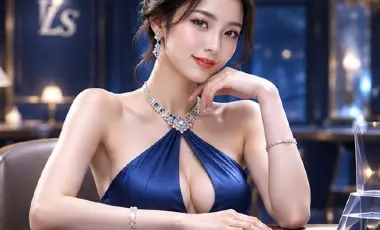
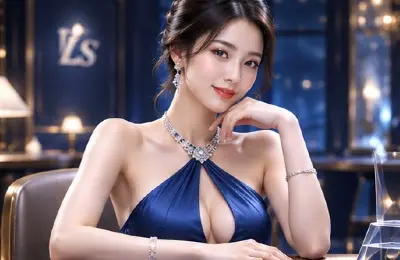
Add baccarat silent countdown before card reveal.
Dim the live dealer view during betting, show a visible countdown, then brighten and deal/flip cards when time runs out. Align home styling closer to the latest Hi mockup.

diff --git a/public/index.html b/public/index.html
@@ -21,10 +21,10 @@ button,input{font:inherit}button{border:0;cursor:pointer;background:none;color:i
 /* top */
 .top{position:sticky;top:0;z-index:20;display:flex;align-items:center;justify-content:space-between;padding:10px 14px;background:rgba(6,14,28,.82);backdrop-filter:blur(18px);border-bottom:1px solid #21406a55}
 .brand{display:flex;align-items:center;gap:10px}
-.logo-mark{width:36px;height:36px;transform:rotate(45deg);border-radius:8px;background:linear-gradient(145deg,#8ad8ff,#2a78ff 55%,#1250c8);display:grid;place-items:center;box-shadow:0 0 18px #2f8dff77,inset 0 1px #fff8}
-.logo-mark span{transform:rotate(-45deg);font:800 12px/1 Georgia,serif;color:#eaf7ff;letter-spacing:.5px;text-shadow:0 1px 4px #003}
+.logo-mark{width:34px;height:38px;clip-path:polygon(50% 0,100% 18%,100% 72%,50% 100%,0 72%,0 18%);background:linear-gradient(160deg,#9fe0ff,#2f7dff 55%,#1248b8);display:grid;place-items:center;box-shadow:0 0 16px #2f8dff77}
+.logo-mark span{font:800 11px/1 Georgia,serif;color:#eaf7ff;letter-spacing:.5px;text-shadow:0 1px 4px #003;margin-top:-2px}
 .brand-txt b{display:block;font-size:15px;font-weight:800;letter-spacing:.5px}
-.brand-txt small{color:var(--cyan);font-size:10px;letter-spacing:1px}
+.brand-txt small{color:var(--cyan);font-size:10px;letter-spacing:1.2px}
 .top-actions{display:flex;gap:8px}
 .icon-btn{width:34px;height:34px;border-radius:10px;background:#122740;border:1px solid #2b4d7888;color:#cfe4ff;display:grid;place-items:center;position:relative}
 .icon-btn .dot{position:absolute;top:6px;right:7px;width:7px;height:7px;border-radius:50%;background:#ff4d4f;box-shadow:0 0 8px #ff4d4f}
@@ -32,32 +32,32 @@ button,input{font:inherit}button{border:0;cursor:pointer;background:none;color:i
 /* home */
 .hero{margin:12px 12px 10px;border-radius:18px;overflow:hidden;position:relative;height:176px;border:1px solid #3a6aa855;box-shadow:0 12px 30px #0006}
 .hero img{width:100%;height:100%;object-fit:cover;object-position:70% 20%;filter:saturate(1.08) brightness(.92)}
-.hero-mask{position:absolute;inset:0;background:linear-gradient(100deg,#06111ff2 0%,#06111fcc 28%,#06111f22 62%,#06111f66 100%)}
-.hero-copy{position:absolute;left:16px;top:50%;transform:translateY(-50%);right:40%;z-index:1}
-.hero-copy h1{margin:0;font-size:26px;font-weight:900;letter-spacing:1px;text-shadow:0 4px 18px #000a}
+.hero-mask{position:absolute;inset:0;background:linear-gradient(100deg,#06111fff 0%,#06111ff5 22%,#06111f55 48%,#06111f10 70%,#06111f55 100%)}
+.hero-copy{position:absolute;left:16px;top:50%;transform:translateY(-50%);right:38%;z-index:1}
+.hero-copy h1{margin:0;font-size:28px;font-weight:900;letter-spacing:1px;text-shadow:0 4px 18px #000a}
 .hero-copy p{margin:10px 0 0;font-size:11px;color:#d7e7ff;opacity:.95;line-height:1.55}
 .hero-arrow{position:absolute;right:14px;bottom:16px;z-index:1;width:30px;height:30px;border-radius:50%;background:#ffffff22;border:1px solid #fff4;display:grid;place-items:center}
 
 .notice{margin:0 12px 10px;padding:9px 12px;border-radius:12px;background:linear-gradient(90deg,#132844cc,#0e1d35cc);border:1px solid #2d4f7a66;display:flex;align-items:center;gap:8px;color:#b7cae6;font-size:12px}
 .notice i{color:var(--gold)}
 
-.vip-card{margin:0 12px 12px;padding:14px;border-radius:16px;background:linear-gradient(135deg,#16325aee,#0d1d38f2 55%,#152a48);border:1px solid #3f6aa988;box-shadow:0 10px 28px #0005,inset 0 1px #ffffff18;display:flex;align-items:center;justify-content:space-between;gap:12px}
+.vip-card{margin:0 12px 12px;padding:14px;border-radius:18px;background:linear-gradient(135deg,rgba(28,58,102,.72),rgba(12,28,52,.88));border:1px solid rgba(120,180,255,.28);box-shadow:0 12px 30px #0006,inset 0 1px rgba(255,255,255,.16);backdrop-filter:blur(16px);display:flex;align-items:center;justify-content:space-between;gap:12px}
 .vip-meta{display:flex;align-items:center;gap:7px;color:var(--gold);font-size:12px;margin-bottom:10px}
 .vip-badge{background:linear-gradient(120deg,#f6d48a,#c8943a);color:#1a1408;font-size:10px;font-weight:800;padding:2px 7px;border-radius:8px}
 .balance-label{font-size:11px;color:var(--muted)}
 .balance-row{display:flex;align-items:center;gap:8px;margin-top:4px}
 .balance-row b{font:800 24px/1.1 Georgia,"Times New Roman",serif;letter-spacing:.5px}
 .eye{width:28px;height:28px;border-radius:8px;background:#1a3050;color:#9fbadc}
-.recharge{min-width:92px;padding:12px 14px;border-radius:12px;background:linear-gradient(135deg,#ffe0a0,#e0b35a 45%,#b8842f);color:#1c1406;font-weight:800;box-shadow:0 8px 18px #b8842f55,inset 0 1px #fff8}
+.recharge{min-width:96px;padding:12px 14px;border-radius:14px;background:linear-gradient(135deg,#ffe9b8,#e0b35a 45%,#b8842f);color:#1c1406;font-weight:800;border:1px solid #f6d48a;box-shadow:0 8px 18px #b8842f55,inset 0 1px #fff8}
 
 .quick{margin:4px 12px 14px;display:grid;grid-template-columns:repeat(4,1fr);gap:8px}
 .quick button{display:grid;gap:7px;justify-items:center;color:#d7e6fb;font-size:11px}
-.qico{width:46px;height:46px;border-radius:14px;background:linear-gradient(160deg,#1a3358,#101f38);border:1px solid #35598788;display:grid;place-items:center;font-size:18px;box-shadow:inset 0 1px #fff2}
+.qico{width:52px;height:52px;border-radius:16px;background:linear-gradient(160deg,rgba(40,72,120,.55),rgba(16,32,58,.9));border:1px solid rgba(120,180,255,.25);display:grid;place-items:center;font-size:20px;box-shadow:inset 0 1px rgba(255,255,255,.18),0 8px 16px #0004;backdrop-filter:blur(10px)}
 
-.promo{margin:0 12px 14px;border-radius:16px;overflow:hidden;position:relative;height:92px;border:1px solid #3d679a77;background:linear-gradient(120deg,#1a3a68,#102446)}
-.promo img{position:absolute;right:0;top:0;height:100%;width:48%;object-fit:cover;opacity:.85;mask-image:linear-gradient(90deg,transparent,#000 30%)}
-.promo-copy{position:relative;z-index:1;padding:18px 16px}
-.promo-copy small{color:var(--gold);letter-spacing:1px;font-size:10px}
+.promo{margin:0 12px 14px;border-radius:16px;overflow:hidden;position:relative;height:96px;border:1px solid #3d679a77;background:linear-gradient(120deg,#1a3a68,#102446)}
+.promo img{position:absolute;right:0;top:0;height:100%;width:55%;object-fit:cover;opacity:.95;mask-image:linear-gradient(90deg,transparent,#000 28%)}
+.promo-copy{position:relative;z-index:1;padding:20px 16px}
+.promo-copy small{color:var(--gold);letter-spacing:1.5px;font-size:10px}
 .promo-copy b{display:block;margin-top:6px;font-size:18px}
 
 .section{margin:0 12px 16px}
@@ -103,13 +103,48 @@ button,input{font:inherit}button{border:0;cursor:pointer;background:none;color:i
 .bac-top .left{display:flex;align-items:center;gap:8px}
 .bac-top h2{margin:0;font-size:18px}
 .live-pill{font-size:10px;padding:3px 7px;border-radius:999px;background:#12345a;border:1px solid #3d7cff88;color:#9fd0ff}
-.dealer-stage{margin:0 12px;border-radius:16px;overflow:hidden;position:relative;height:220px;border:1px solid #3a6aa866;background:#0b172b}
-.dealer-stage img{width:100%;height:100%;object-fit:cover;object-position:center 25%}
-.live-overlay{position:absolute;left:10px;top:10px;display:flex;gap:8px;align-items:center}
+.dealer-stage{margin:0 12px;border-radius:18px;overflow:hidden;position:relative;height:340px;border:1px solid #3a6aa866;background:#0b172b;box-shadow:0 14px 28px #0007}
+.dealer-live{position:absolute;inset:0 0 96px;overflow:hidden}
+.dealer-img{width:100%;height:100%;object-fit:cover;object-position:center 18%;transform-origin:center 30%;will-change:transform,filter;filter:brightness(.55) saturate(.85);transition:filter .45s ease}
+.dealer-img.idle{animation:dealerIdle 4.8s ease-in-out infinite}
+.dealer-img.dealing{filter:brightness(1) saturate(1.05);animation:dealerDeal .55s ease-in-out 4}
+.dealer-img.live-bright{filter:brightness(1) saturate(1.05)}
+.dealer-dim{position:absolute;inset:0;background:rgba(4,10,22,.42);pointer-events:none;transition:opacity .4s;z-index:2}
+.dealer-stage.is-open .dealer-dim{opacity:0}
+.dealer-stage.is-open .dealer-img{filter:brightness(1) saturate(1.05)}
+.dealer-glow{position:absolute;inset:auto 0 0;height:70px;background:linear-gradient(transparent,#0a1a12ee);z-index:2}
+@keyframes dealerIdle{0%,100%{transform:scale(1) translateY(0)}50%{transform:scale(1.02) translateY(-3px)}}
+@keyframes dealerDeal{0%,100%{transform:scale(1) rotate(0)}35%{transform:scale(1.04) rotate(-1.2deg) translateY(-3px)}70%{transform:scale(1.02) rotate(1deg)}}
+@media(prefers-reduced-motion:reduce){.dealer-img.idle,.dealer-img.dealing,.pcard,.cd-ring{animation:none!important}}
+.live-overlay{position:absolute;left:10px;top:10px;display:flex;gap:8px;align-items:center;z-index:5}
 .live-now{background:#e11d48;color:#fff;font-size:10px;font-weight:800;padding:4px 8px;border-radius:999px}
 .viewers{background:#06111ecc;border:1px solid #ffffff22;padding:4px 8px;border-radius:999px;font-size:10px}
-.table-id{position:absolute;right:10px;top:10px;background:#06111ecc;border:1px solid #ffffff22;padding:4px 8px;border-radius:999px;font-size:10px;color:#c9dbf5}
-.signal{position:absolute;right:10px;bottom:10px;font-size:11px;color:#9fe870}
+.table-id{position:absolute;right:10px;top:10px;z-index:5;background:#06111ecc;border:1px solid #ffffff22;padding:4px 8px;border-radius:999px;font-size:10px;color:#c9dbf5}
+.signal{position:absolute;right:10px;top:40px;z-index:5;font-size:11px;color:#9fe870}
+.countdown-layer{position:absolute;inset:0 0 96px;z-index:4;display:grid;place-items:center;pointer-events:none}
+.countdown-layer.hide{opacity:0;visibility:hidden;transition:opacity .25s}
+.cd-ring{width:92px;height:92px;border-radius:50%;border:3px solid rgba(240,200,120,.35);box-shadow:0 0 0 10px rgba(0,0,0,.28),0 0 28px rgba(79,195,255,.25);background:rgba(6,14,28,.55);backdrop-filter:blur(8px);display:grid;place-items:center;position:relative}
+.cd-ring:before{content:"";position:absolute;inset:-3px;border-radius:50%;border:3px solid transparent;border-top-color:var(--gold);animation:cdSpin 1s linear infinite}
+@keyframes cdSpin{to{transform:rotate(360deg)}}
+.cd-num{font:800 34px/1 Georgia,serif;color:#fff;text-shadow:0 4px 16px #000a}
+.cd-label{position:absolute;bottom:18px;left:0;right:0;text-align:center;font-size:11px;letter-spacing:2px;color:#d7e7ff;text-shadow:0 2px 8px #000a}
+.felt{position:absolute;left:0;right:0;bottom:0;height:100px;z-index:6;background:radial-gradient(ellipse at 50% 0%,#1f6a45,#0d3a28 70%);border-top:1px solid #3d9a6888;display:grid;grid-template-columns:1fr auto 1fr;align-items:center;gap:6px;padding:8px 10px}
+.felt-side{text-align:center}
+.felt-side>span{display:block;font-size:10px;color:#c8f0d8;letter-spacing:1px;margin-bottom:4px}
+.felt-side>b{display:block;margin-top:4px;font-size:12px;color:#ffe7a8}
+.card-slot{display:flex;justify-content:center;gap:4px;min-height:46px}
+.felt-center{min-width:78px;text-align:center;font-size:11px;color:#d7ffe8;padding:6px 8px;border-radius:10px;background:#06241899;border:1px solid #3d9a6855}
+.felt-center.win{color:#ffe7a8;border-color:#f0c87888;box-shadow:0 0 16px #f0c87844}
+.pcard{width:32px;height:44px;perspective:400px;opacity:0;transform:translateY(-40px) scale(.6)}
+.pcard.show{animation:cardIn .35s ease forwards}
+.pcard.flip .pcard-inner{transform:rotateY(180deg)}
+@keyframes cardIn{to{opacity:1;transform:translateY(0) scale(1)}}
+.pcard-inner{position:relative;width:100%;height:100%;transform-style:preserve-3d;transition:transform .45s ease}
+.pcard-face{position:absolute;inset:0;border-radius:5px;backface-visibility:hidden;display:grid;place-items:center;font-size:11px;font-weight:800;box-shadow:0 3px 8px #0007}
+.pcard-back{background:linear-gradient(145deg,#1d4f9c,#0d2a5c);border:1px solid #7eb0ff88;color:#9fd0ff}
+.pcard-back:before{content:"LR";font:800 9px Georgia,serif;letter-spacing:1px}
+.pcard-front{background:linear-gradient(160deg,#fff,#e8eef8);border:1px solid #d7dde8;color:#1a2438;transform:rotateY(180deg);grid-template-rows:auto 1fr auto;padding:2px}
+.pcard-front .r{font-size:10px;line-height:1}.pcard-front .s{font-size:14px}.pcard-front.red{color:#d64545}
 
 .table-panel{margin:12px}
 .bet-main{display:grid;grid-template-columns:1fr 1fr 1fr;gap:8px;margin-bottom:8px}
@@ -260,7 +295,7 @@ body:not(.is-user) .user-only{display:none!important}
     <button onclick="toast('客服入口演示')"><span class="qico">🎧</span>客服</button>
   </div>
   <section class="promo">
-    <img src="network-bonus.webp" alt="">
+    <img src="promo-gift.webp" alt="" onerror="this.src='network-bonus.webp'">
     <div class="promo-copy"><small>NEW MEMBER</small><b>新人专享礼</b></div>
   </section>
   <section class="section">
@@ -303,11 +338,32 @@ body:not(.is-user) .user-only{display:none!important}
       <button class="icon-btn" onclick="toast('全屏演示')">⛶</button>
     </div>
   </div>
-  <section class="dealer-stage">
-    <img id="bacDealer" src="baccarat-dealer.webp" alt="百家乐荷官">
-    <div class="live-overlay"><span class="live-now">● 直播中</span><span class="viewers">👁 3,426</span></div>
-    <div class="table-id">局号 B0087326</div>
+  <section class="dealer-stage" id="dealerStage">
+    <div class="dealer-live">
+      <img id="bacDealer" class="dealer-img idle" src="baccarat-dealer.webp" alt="百家乐荷官">
+      <div class="dealer-dim" id="dealerDim"></div>
+      <div class="dealer-glow"></div>
+    </div>
+    <div class="live-overlay"><span class="live-now">● 直播中</span><span class="viewers" id="bacViewers">👁 3,426</span></div>
+    <div class="table-id" id="tableId">局号 B0087326</div>
     <div class="signal">📶 信号良好</div>
+    <div class="countdown-layer" id="countdownLayer">
+      <div class="cd-ring"><span class="cd-num" id="cdNum">15</span></div>
+      <div class="cd-label" id="cdLabel">下注倒计时</div>
+    </div>
+    <div class="felt">
+      <div class="felt-side">
+        <span>闲 PLAYER</span>
+        <div class="card-slot" id="pCards"></div>
+        <b id="pScore">—</b>
+      </div>
+      <div class="felt-center" id="dealStatus">静默等待中</div>
+      <div class="felt-side">
+        <span>庄 BANKER</span>
+        <div class="card-slot" id="bCards"></div>
+        <b id="bScore">—</b>
+      </div>
+    </div>
   </section>
   <section class="table-panel">
     <div class="bet-main">
@@ -546,7 +602,7 @@ function openGame(n){
   recent=[n,...recent.filter(x=>x!==n)].slice(0,30);writeList('lr-recent',recent);
   const game=games.find(x=>x.name===n);
   if(EXTERNAL_GAMES[n]){toast('正在打开 '+n+' 试玩页');window.open(EXTERNAL_GAMES[n],'_blank','noopener,noreferrer');return}
-  if(game&&game.cat==='真人'){enterGame('baccarat');setupBaccarat(game);return}
+  if(game&&game.cat==='真人'){enterGame('baccarat');setupBaccarat();return}
   if(game&&game.name.startsWith('加拿大')){enterGame('canada');return}
   if(game){enterGame('play');setupPlay(game);return}
 }
@@ -578,8 +634,13 @@ function enterGame(id){
   document.querySelectorAll('.nav').forEach(x=>x.classList.remove('active'));
   setChrome(true);window.scrollTo(0,0);
 }
-function exitGame(c){setChrome(false);go('games',c)}
+function exitGame(c){
+  if(typeof stopCountdown==='function')stopCountdown();
+  dealing=false;bettingOpen=false;
+  setChrome(false);go('games',c);
+}
 function go(p,c){
+  if(p!=='baccarat' && typeof stopCountdown==='function'){stopCountdown();bettingOpen=false}
   setChrome(false);
   document.querySelectorAll('.page').forEach(x=>x.classList.toggle('active',x.id===p));
   document.querySelectorAll('.nav').forEach(x=>x.classList.toggle('active',x.dataset.page===p));
@@ -617,8 +678,11 @@ document.getElementById('toggleBal').onclick=()=>{
 };
 refreshAuth();
 
-/* baccarat demo */
+/* baccarat demo — dim silent countdown, then open cards */
 const roadSeed=['p','b','p','p','b','b','p','t','b','p','b','p','p','b','t','b','p','b','p','p','b','p','b','b'];
+const SUITS=[{s:'♠',red:false},{s:'♥',red:true},{s:'♣',red:false},{s:'♦',red:true}];
+const RANKS=['A','2','3','4','5','6','7','8','9','10','J','Q','K'];
+const BET_SECONDS=12;
 function paintRoad(arr){
   const root=document.getElementById('roadDots');
   root.innerHTML=arr.slice(-24).map(x=>`<i class="${x}"></i>`).join('');
@@ -628,43 +692,164 @@ function paintRoad(arr){
   document.getElementById('statT').textContent=c.t;
 }
 paintRoad(roadSeed);
-let chip=100,bets={},lastBets={},road=roadSeed.slice();
-function setupBaccarat(game){
+let chip=100,bets={},lastBets={},lockedBets={},road=roadSeed.slice();
+let dealing=false,bettingOpen=false,secondsLeft=BET_SECONDS,cdTimer=null,roundNo=87326;
+function cardValue(rank){if(rank==='A')return 1;if(['10','J','Q','K'].includes(rank))return 0;return Number(rank)}
+function handPoint(cards){return cards.reduce((a,c)=>a+cardValue(c.rank),0)%10}
+function drawCard(){return {rank:RANKS[Math.floor(Math.random()*RANKS.length)],...SUITS[Math.floor(Math.random()*SUITS.length)]}}
+function makeCardEl(card){
+  const el=document.createElement('div');
+  el.className='pcard';
+  el.innerHTML=`<div class="pcard-inner"><div class="pcard-face pcard-back"></div><div class="pcard-face pcard-front ${card.red?'red':''}"><div class="r">${card.rank}</div><div class="s">${card.s}</div><div class="r">${card.rank}</div></div></div>`;
+  return el;
+}
+function clearFelt(statusText){
+  document.getElementById('pCards').innerHTML='';
+  document.getElementById('bCards').innerHTML='';
+  document.getElementById('pScore').textContent='—';
+  document.getElementById('bScore').textContent='—';
+  const st=document.getElementById('dealStatus');
+  st.classList.remove('win');st.textContent=statusText||'静默等待中';
+}
+function setVideoPhase(phase){
+  const stage=document.getElementById('dealerStage');
+  const img=document.getElementById('bacDealer');
+  const layer=document.getElementById('countdownLayer');
+  img.classList.remove('idle','dealing','live-bright');
+  if(phase==='countdown'){
+    stage.classList.remove('is-open');
+    img.classList.add('idle');
+    layer.classList.remove('hide');
+    document.getElementById('cdLabel').textContent='下注倒计时 · 画面静默';
+  }else if(phase==='open'){
+    stage.classList.add('is-open');
+    img.classList.add('dealing','live-bright');
+    layer.classList.add('hide');
+  }else{
+    stage.classList.remove('is-open');
+    img.classList.add('idle');
+    layer.classList.remove('hide');
+  }
+}
+function stopCountdown(){if(cdTimer){clearInterval(cdTimer);cdTimer=null}}
+function renderCountdown(){
+  document.getElementById('cdNum').textContent=String(Math.max(0,secondsLeft));
+  document.getElementById('dealStatus').textContent=bettingOpen?('下注中 '+secondsLeft+'s'):'准备开牌';
+}
+function startBettingCountdown(){
+  stopCountdown();
+  dealing=false;bettingOpen=true;secondsLeft=BET_SECONDS;
+  lockedBets={};
+  document.getElementById('bacConfirm').disabled=false;
+  document.getElementById('bacConfirm').textContent='✓ 确认下注';
+  clearFelt('静默等待 · 可下注');
+  setVideoPhase('countdown');
+  renderCountdown();
+  cdTimer=setInterval(async()=>{
+    if(!document.getElementById('baccarat').classList.contains('active'))return;
+    secondsLeft-=1;renderCountdown();
+    if(secondsLeft<=0){
+      stopCountdown();
+      bettingOpen=false;
+      await beginOpenCards();
+    }
+  },1000);
+}
+function setupBaccarat(){
   document.getElementById('bacDealer').src='baccarat-dealer.webp';
   bets={};updateBetSummary();
+  startBettingCountdown();
 }
 function updateBetSummary(){
   const entries=Object.entries(bets).filter(([,v])=>v>0);
-  document.getElementById('betSummary').textContent=entries.length?('本局：'+entries.map(([k,v])=>k+' '+v).join(' · ')):'请选择筹码并点击投注区';
-  document.querySelectorAll('[data-bet]').forEach(b=>{
-    const k=b.dataset.bet;const v=bets[k]||0;
-    const base=b.innerHTML.split('<b>')[0].trim().replace(/\s+\d+$/,'');
-    // keep odds label
-  });
+  document.getElementById('betSummary').textContent=entries.length?('本局：'+entries.map(([k,v])=>k+' '+v).join(' · ')):(bettingOpen?'倒计时内选择筹码并点击投注区':'开牌中，请稍候');
+}
+function wait(ms){return new Promise(r=>setTimeout(r,ms))}
+async function dealTo(slotId,card){
+  const slot=document.getElementById(slotId);
+  const el=makeCardEl(card);
+  slot.appendChild(el);
+  await wait(30);
+  el.classList.add('show');
+  await wait(280);
+  el.classList.add('flip');
+  await wait(420);
+  return el;
+}
+async function beginOpenCards(){
+  if(dealing)return;
+  dealing=true;bettingOpen=false;
+  document.getElementById('bacConfirm').disabled=true;
+  lockedBets=Object.keys(bets).length?{...bets}:{...lastBets};
+  if(Object.keys(bets).length) lastBets={...bets};
+  clearFelt('封盘 · 即将开牌');
+  document.getElementById('cdLabel').textContent='封盘';
+  document.getElementById('countdownLayer').classList.add('hide');
+  await wait(500);
+  roundNo+=1;
+  document.getElementById('tableId').textContent='局号 B'+String(roundNo).padStart(7,'0');
+  document.getElementById('dealStatus').textContent='荷官开牌中…';
+  setVideoPhase('open');
+  const player=[drawCard(),drawCard()];
+  const banker=[drawCard(),drawCard()];
+  await dealTo('pCards',player[0]);
+  await dealTo('bCards',banker[0]);
+  await dealTo('pCards',player[1]);
+  await dealTo('bCards',banker[1]);
+  let p=handPoint(player),b=handPoint(banker);
+  document.getElementById('pScore').textContent=p+' 点';
+  document.getElementById('bScore').textContent=b+' 点';
+  if(p<6 && b<6){
+    document.getElementById('dealStatus').textContent='补牌中…';
+    const extra=drawCard();
+    if(Math.random()<.5){player.push(extra);await dealTo('pCards',extra);p=handPoint(player);document.getElementById('pScore').textContent=p+' 点'}
+    else{banker.push(extra);await dealTo('bCards',extra);b=handPoint(banker);document.getElementById('bScore').textContent=b+' 点'}
+  }
+  const result=p>b?'p':b>p?'b':'t';
+  const map={p:'闲',b:'庄',t:'和'};
+  const st=document.getElementById('dealStatus');
+  st.classList.add('win');
+  st.textContent=map[result]+' 胜 · '+p+':'+b;
+  road=[...road,result];paintRoad(road);
+  toast('开牌完成：'+map[result]+'胜（演示）');
+  bets={};document.querySelectorAll('[data-bet]').forEach(x=>x.classList.remove('active'));updateBetSummary();
+  await wait(2800);
+  dealing=false;
+  if(document.getElementById('baccarat').classList.contains('active')) startBettingCountdown();
 }
 document.querySelectorAll('#chipRow [data-chip]').forEach(b=>b.onclick=()=>{
+  if(!bettingOpen||dealing)return;
   chip=Number(b.dataset.chip);document.querySelectorAll('#chipRow button').forEach(x=>x.classList.remove('active'));b.classList.add('active');
   toast('已选择筹码 '+b.textContent);
 });
 document.querySelectorAll('[data-bet]').forEach(b=>b.onclick=()=>{
+  if(!bettingOpen||dealing){toast(dealing?'正在开牌':'已封盘');return}
   const k=b.dataset.bet;bets[k]=(bets[k]||0)+chip;
   document.querySelectorAll('[data-bet]').forEach(x=>x.classList.toggle('active',(bets[x.dataset.bet]||0)>0));
   updateBetSummary();
 });
-document.getElementById('bacClear').onclick=()=>{bets={};document.querySelectorAll('[data-bet]').forEach(x=>x.classList.remove('active'));updateBetSummary();toast('已清空')};
+document.getElementById('bacClear').onclick=()=>{
+  if(!bettingOpen||dealing)return;
+  bets={};document.querySelectorAll('[data-bet]').forEach(x=>x.classList.remove('active'));updateBetSummary();toast('已清空');
+};
 document.getElementById('bacRepeat').onclick=()=>{
+  if(!bettingOpen||dealing)return;
   if(!Object.keys(lastBets).length){toast('暂无上局可重复');return}
   bets={...lastBets};document.querySelectorAll('[data-bet]').forEach(x=>x.classList.toggle('active',(bets[x.dataset.bet]||0)>0));updateBetSummary();toast('已重复上局');
 };
 document.getElementById('bacConfirm').onclick=()=>{
+  if(dealing)return;
+  if(!bettingOpen){toast('已封盘，等待开牌');return}
   if(!Object.keys(bets).length){toast('请先下注');return}
   lastBets={...bets};
-  const result=['p','b','t'][Math.floor(Math.random()*3)];
-  const map={p:'闲',b:'庄',t:'和'};
-  road=[...road,result];paintRoad(road);
-  toast('演示开奖：'+map[result]+' 胜 · 非真实派彩');
-  bets={};document.querySelectorAll('[data-bet]').forEach(x=>x.classList.remove('active'));updateBetSummary();
+  toast('下注已确认，等待倒计时开牌');
+  document.getElementById('bacConfirm').textContent='✓ 已锁定';
 };
+setInterval(()=>{
+  if(!document.getElementById('baccarat').classList.contains('active'))return;
+  const n=3400+Math.floor(Math.random()*120);
+  document.getElementById('bacViewers').textContent='👁 '+n.toLocaleString();
+},4000);
 
 /* play demo for other games */
 let playStake=10,playCredit=10000,currentPlay=null;
